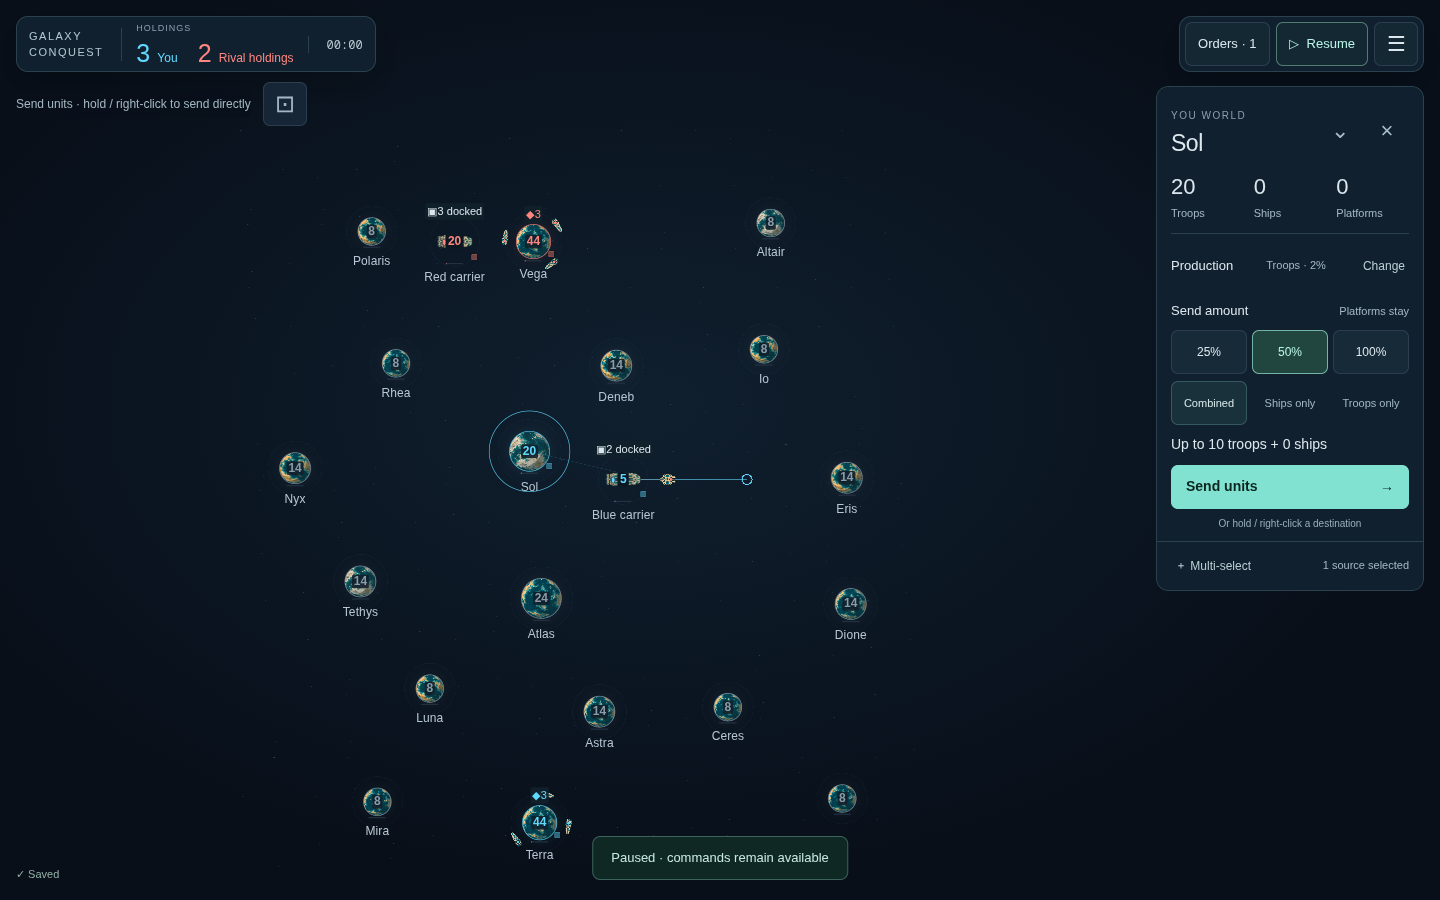
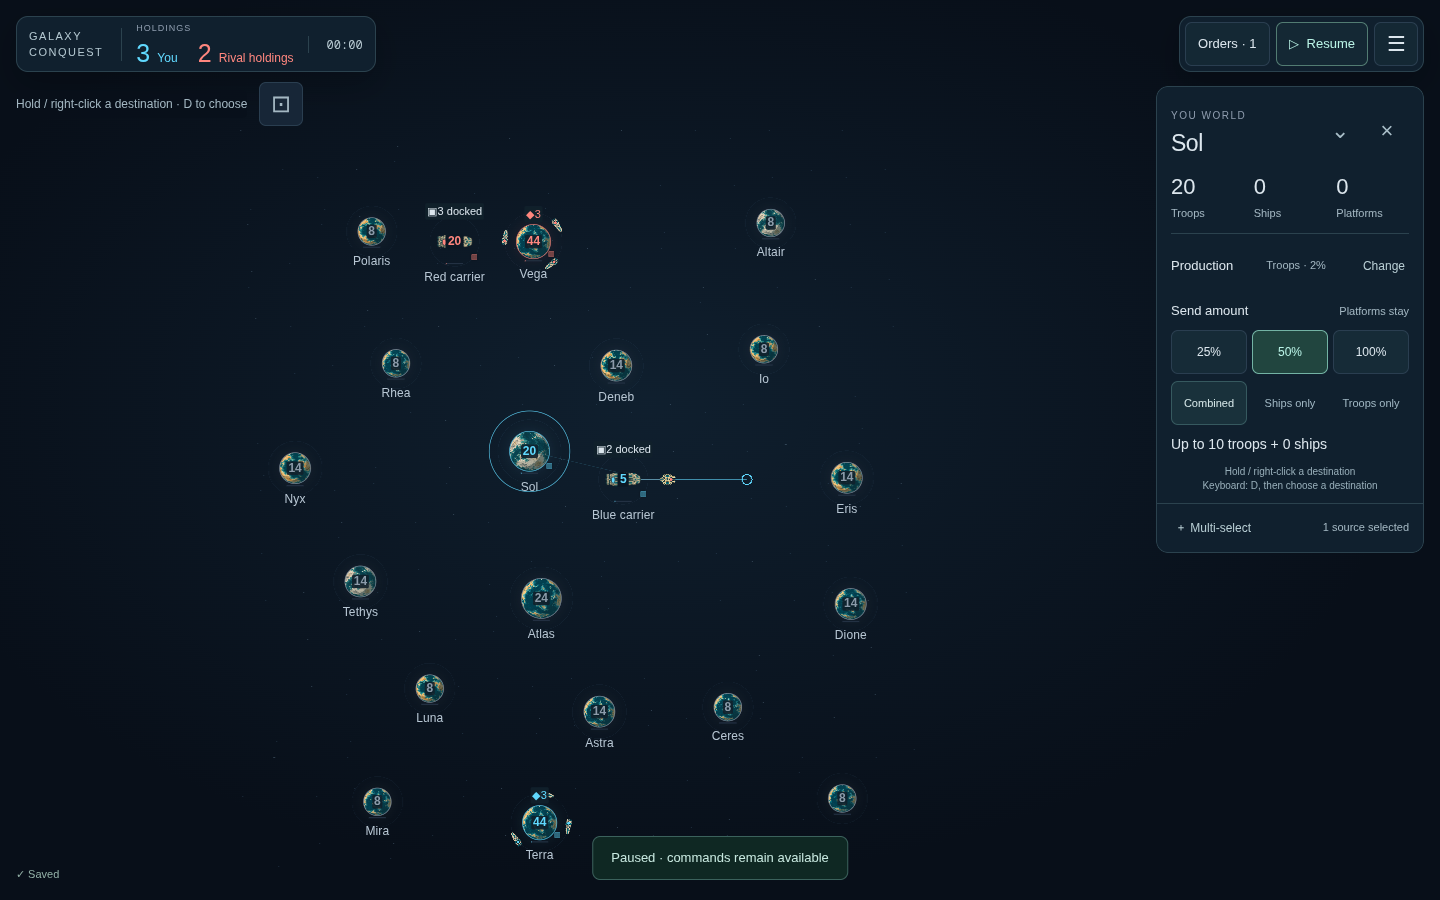
Replace Send units button with D shortcut

diff --git a/src/main.ts b/src/main.ts
@@ -679,7 +679,6 @@ const refreshContent = function (): void {
 	const preview = previewDispatch(world, selected, fraction, shipsOnly ? 'ships' : filter);
 	element('dispatch-preview', HTMLParagraphElement).textContent = `Up to ${preview.troops} troops + ${preview.ships} ships`;
 	element('destination-summary', HTMLDivElement).textContent = choosingDestination === 'bombard' ? `${p?.name ?? 'Carrier'} · ${CONFIG.bombardmentCharge}s charge · neutralizes the surface` : `From ${selected.length > 1 ? `${selected.length} sources` : p?.name ?? 'selection'} · up to ${preview.troops} troops + ${preview.ships} ships · groups: ships only`;
-	element('send-units', HTMLButtonElement).disabled = multi || preview.troops + preview.ships === 0 || matchEnded(match);
 	const warning = element('selection-warning', HTMLDivElement);
 	const carrierBlocked = p?.carrier && first !== undefined && SIDES.some(function (side) { return isHostile(side, p.owner) && shipsAt(world, first, side).length > 0; });
 	warning.textContent = carrierBlocked ? `Docking blocked by hostile ships.${p?.owner === 'blue' ? ' Launching is still allowed.' : ''}` : preview.blockedSources > 0
@@ -714,7 +713,7 @@ const refreshContent = function (): void {
 	instruction.textContent = multi
 		? 'Select sources · then finish selection'
 		: selected.length
-			? p?.carrier && p.owner === 'blue' && selected.length === 1 ? 'Click empty space to move carrier' : 'Send units · hold / right-click to send directly'
+			? p?.carrier && p.owner === 'blue' && selected.length === 1 ? 'Click empty space to move carrier' : 'Hold / right-click a destination · D to choose'
 			: 'Select your world or orbital ships';
 	multiButton.hidden = selected.length > 0 && !multi;
 	multiButton.setAttribute('aria-pressed', String(multi));
@@ -897,7 +896,7 @@ const mapInput = createMapInput({
 	},
 	selectFleet: function (id): void {
 		if (choosingDestination === 'dispatch') sendToFleet(id);
-		else feedback('Use Send units, or hold / right-click a hostile group to intercept.');
+		else feedback('Hold / right-click a hostile group, or press D to choose an interception target.');
 	},
 	dispatchFleet: sendToFleet,
 	moveTo: function (point): void {
@@ -1197,20 +1196,23 @@ const cancelDispatch = function (): void {
 	cancelMapCommand();
 	refresh();
 	updateLayout();
-	const button = element(command === 'bombard' ? 'bombard-planet' : 'send-units', HTMLButtonElement);
-	if (button.disabled || sheetCollapsed) board.focus({ preventScroll: true });
-	else button.focus({ preventScroll: true });
+	const button = element('bombard-planet', HTMLButtonElement);
+	if (command === 'bombard' && !button.hidden && !button.disabled && !sheetCollapsed) button.focus({ preventScroll: true });
+	else board.focus({ preventScroll: true });
 };
-element('send-units', HTMLButtonElement).addEventListener('click', function () {
-	if (busy || multi || selected.length === 0 || matchEnded(world.getResource('match'))) return;
+const beginDispatch = function (): void {
+	if (busy || multi || selected.length === 0 || choosingDestination || matchEnded(world.getResource('match'))) return;
+	const shipsOnly = selected.every(function (id) { return world.getComponent(id, 'planet')?.owner !== 'blue'; });
+	const preview = previewDispatch(world, selected, fraction, shipsOnly ? 'ships' : filter);
+	if (preview.troops + preview.ships === 0) return;
 	choosingDestination = 'dispatch';
 	mapInput.cancel();
 	drawer.close();
 	fieldGuide.hidden = true;
 	refresh();
 	updateLayout();
-	board.focus();
-});
+	board.focus({ preventScroll: true });
+};
 element('cancel-dispatch', HTMLButtonElement).addEventListener('click', cancelDispatch);
 element('panel-multi', HTMLButtonElement).addEventListener('click', function () { multiButton.click(); });
 element('change-production', HTMLButtonElement).addEventListener('click', function () {
@@ -1394,6 +1396,12 @@ window.addEventListener('keydown', function (event) {
 	}
 	if (event.altKey || event.ctrlKey || event.metaKey) return;
 	const mapFocused = event.target === document.body || event.target === board;
+	const gameplayFocused = mapFocused || event.target instanceof Node && app.contains(event.target);
+	const editing = event.target instanceof Element && event.target.closest('input, textarea, select, [contenteditable]:not([contenteditable="false"])');
+	if (event.key.toLowerCase() === 'd' && gameplayFocused && !editing && fieldGuide.hidden && ordersPanel.hidden) {
+		event.preventDefault();
+		beginDispatch();
+	}
 	if (event.key === 'Home' && (mapFocused || event.target instanceof Node && board.contains(event.target))) {
 		event.preventDefault();
 		fitMap();

diff --git a/index.html b/index.html
@@ -286,7 +286,7 @@
 			</section>
 		</div>
 		<div id="app" hidden>
-			<main id="board" aria-label="Star map" tabindex="0">
+			<main id="board" aria-label="Star map" aria-keyshortcuts="D" tabindex="0">
 				<div id="map-world">
 					<canvas id="space" aria-hidden="true"></canvas>
 					<div id="planets"></div>
@@ -359,8 +359,7 @@
 								<button data-filter="combined" aria-pressed="true">Combined</button><button data-filter="ships">Ships only</button><button data-filter="troops">Troops only</button>
 							</div></div>
 							<p id="dispatch-preview"></p>
-							<button id="send-units" class="send-button">Send units <span aria-hidden="true">→</span></button>
-							<p class="dispatch-shortcut">Or hold / right-click a destination</p>
+							<p class="dispatch-shortcut">Hold / right-click a destination<br />Keyboard: D, then choose a destination</p>
 						</div>
 					</div>
 					<div class="command-footer"><button id="panel-multi" class="text-button" aria-pressed="false">＋ Multi-select</button><span id="selection-count"></span></div>
@@ -436,8 +435,8 @@
 				<details class="guide">
 					<summary>How to play</summary>
 					<div id="play-instructions">
-						<p>Drag to explore. Scroll or pinch to zoom. Focus the map and use arrow keys to pan, Space to pause, or Home to fit the map. Shift-click to add or remove a source. Click empty space to clear selection; with one carrier selected, it sets its course instead. Select a world, choose Send units, then tap or click a destination. Cancel, Escape, or right-clicking empty space cancels destination choice and keeps the sources. Hold or right-click a destination to send directly.</p>
-						<p>To intercept, select a planet or orbital ring, choose Send units, then select a hostile group’s ⌖ marker. You can also hold or right-click its marker. Interception sends warships only, even with Combined selected. Troops and transports stay behind. Ships follow the group and use normal combat rules in range, then return to their launch points when the group is destroyed or reaches orbit.</p>
+						<p>Drag to explore. Scroll or pinch to zoom. Focus the map and use arrow keys to pan, Space to pause, or Home to fit the map. Shift-click to add or remove a source. Click empty space to clear selection; with one carrier selected, it sets its course instead. Hold or right-click a destination to send units. For keyboard dispatch, select a source and press D, then tap, click, or focus a destination and press Enter. Cancel, Escape, or right-clicking empty space cancels destination choice and keeps the sources.</p>
+						<p>To intercept, select a planet or orbital ring, then hold or right-click a hostile group’s ⌖ marker. You can also press D to enter destination mode and select its marker. Interception sends warships only, even with Combined selected. Troops and transports stay behind. Ships follow the group and use normal combat rules in range, then return to their launch points when the group is destroyed or reaches orbit.</p>
 						<p>
 							Tap or left-click a world to select it. Hold a destination on touch,
 							or right-click it with a mouse, to send units. Select the source again

diff --git a/src/gameplay-ui.css b/src/gameplay-ui.css
@@ -82,8 +82,6 @@
 #app #filter button { font-size: 11px; min-height: 36px; background: transparent; border-color: transparent; color: #a0b7c3; }
 #app #filter button[aria-pressed='true'] { border-color: #36595f; background: #19313b; color: #d5e7e8; }
 #app #dispatch-preview { margin: 10px 0; font-size: 14px; font-variant-numeric: tabular-nums; }
-#app .send-button { width: 100%; display: flex; justify-content: space-between; align-items: center; background: var(--action); border-color: var(--action); color: #09251e; padding: 0 14px; font-weight: 600; }
-#app .send-button:hover { background: #a1f0e0; }
 #app .dispatch-shortcut { color: #97aeb9; text-align: center; font-size: 10px; margin: 8px 0; }
 #app .command-footer { display: flex; align-items: center; justify-content: space-between; gap: 10px; border-top: 1px solid var(--ui-line); margin: 10px -14px 0; padding: 2px 14px; font-size: 11px; color: var(--ui-muted); }
 #app .text-button { padding: 0 3px; background: transparent; border-color: transparent; color: #b8ced4; font-size: 12px; }
@@ -211,8 +209,6 @@
 	#app .segments button { font-size: 13px; }
 	#app #filter button { font-size: 12px; }
 	#app #dispatch-preview { margin: 11px 0; font-size: 14px; }
-	#app .send-button { min-height: 44px; font-size: 14px; }
-	#app .dispatch-shortcut { display: none; }
 	#app .command-footer { margin: 8px -14px 0; padding: 0 14px; }
 	#app #field-guide { max-height: calc(100dvh - var(--panel-top) - 16px); }
 }

diff --git a/README.md b/README.md
@@ -41,7 +41,7 @@ The star map fills the viewport. Drag to pan; scroll or pinch to zoom around the
 
 The command panel separates forces, production, and dispatch. Production is available only for owned holdings; **Change** expands its choices. The chevron collapses the controls on every screen size, and close/collapse controls stay reachable while the panel scrolls. Save, fullscreen, restart, new game, profiles, scenarios, pace, and help are in the game menu. Small screens hide the wordmark and routine save timestamp; below 360px the clock is also hidden. Save errors remain visible.
 
-Tap or left-click a blue planet or carrier to select it. Choose **Send units**, then tap or click a destination; a focused destination also accepts Enter. The command panel clears while choosing, with the source and available launch counts kept in view. **Cancel**, Escape, or right-clicking empty map space cancels destination choice and any pending touch hold without clearing the sources. The default amount is 50%; 25%, 100%, ships-only, and troops-only are also available. Preview counts use the same rounding and blockade rules as dispatch. Platforms never travel.
+Tap or left-click a blue planet or carrier to select it. Hold or right-click a destination to send units. For keyboard dispatch, press **D** after selecting sources, then tap, click, or focus a destination and press Enter. The command panel clears while choosing, with the source and available launch counts kept in view. **Cancel**, Escape, or right-clicking empty map space cancels destination choice and any pending touch hold without clearing the sources. The default amount is 50%; 25%, 100%, ships-only, and troops-only are also available. Preview counts use the same rounding and blockade rules as dispatch. Platforms never travel.
 
 For direct dispatch, hold an entity for 500 ms on touch or right-click it with a mouse. A visible outline marks a pending hold. Dragging, pinching, zooming, cancelling a touch, opening a menu, or losing window focus cancels it. With one owned carrier selected outside destination mode, click empty map space to set its course. **Launch docked ships here** sends the selected share into local space, including during blockade. Multi-select gathers sources; finish selection before dispatch. Shift-click also adds or removes sources. Tap a selected source again or use Clear selection to deselect; clicking empty map space clears ordinary selections. Escape closes an open menu or Orders before clearing selection. Friendly orbital ships above an enemy surface remain valid ship-only sources, and their enemy surface stock is excluded from player force totals.
 

diff --git a/docs/game-design.md b/docs/game-design.md
@@ -73,7 +73,7 @@ A movement order, **Cancel bombardment**, or successful boarding cancels the att
 
 ### Dispatch, movement, and orders
 
-Select one or more sources and a destination planet or carrier. The default send amount is 50%, with 25% and 100% also available. Filters select combined forces, ships only, or troops only. For each source, ships round up and troops round down after applying the fraction. Platforms never depart. A friendly orbital presence above a hostile surface can be a ship-only source. Choose **Send units**, then tap, click, or keyboard-activate a destination. Cancel or Escape keeps the sources and cancels any pending hold. Direct dispatch remains available by holding an entity for 500 ms on touch or right-clicking with a mouse. When a single owned carrier is selected, clicking empty map space instead sets its movement destination.
+Select one or more sources and a destination planet or carrier. The default send amount is 50%, with 25% and 100% also available. Filters select combined forces, ships only, or troops only. For each source, ships round up and troops round down after applying the fraction. Platforms never depart. A friendly orbital presence above a hostile surface can be a ship-only source. Press **D** after selecting sources to enter destination mode, then tap, click, or keyboard-activate a destination. Cancel or Escape keeps the sources and cancels any pending hold. Direct dispatch remains available by holding an entity for 500 ms on touch or right-clicking with a mouse. When a single owned carrier is selected, clicking empty map space instead sets its movement destination.
 
 Orders reserve troops and ships immediately, including during pause, so repeated sends use the remaining stock. A paused launch can be cancelled before the next simulation step, restoring its reservation. Recall redirects surviving escorts and loaded transports from their current positions to each unit's original departure planet. Waiting invasion transports and their escorts remain recallable until landing completes. Returns follow normal arrival/combat rules if their source has changed hands. Returning orders cannot be recalled again.
 
